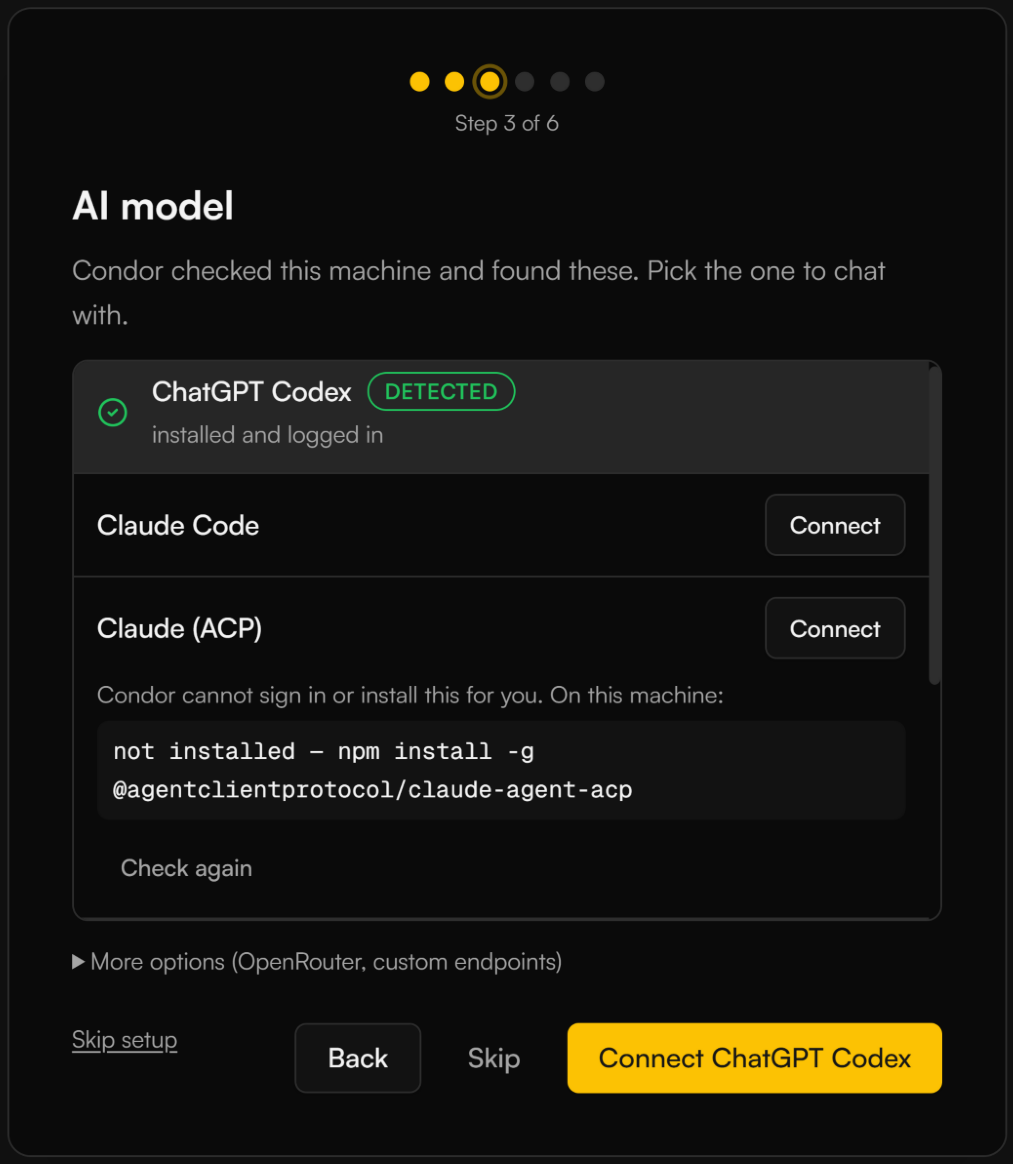
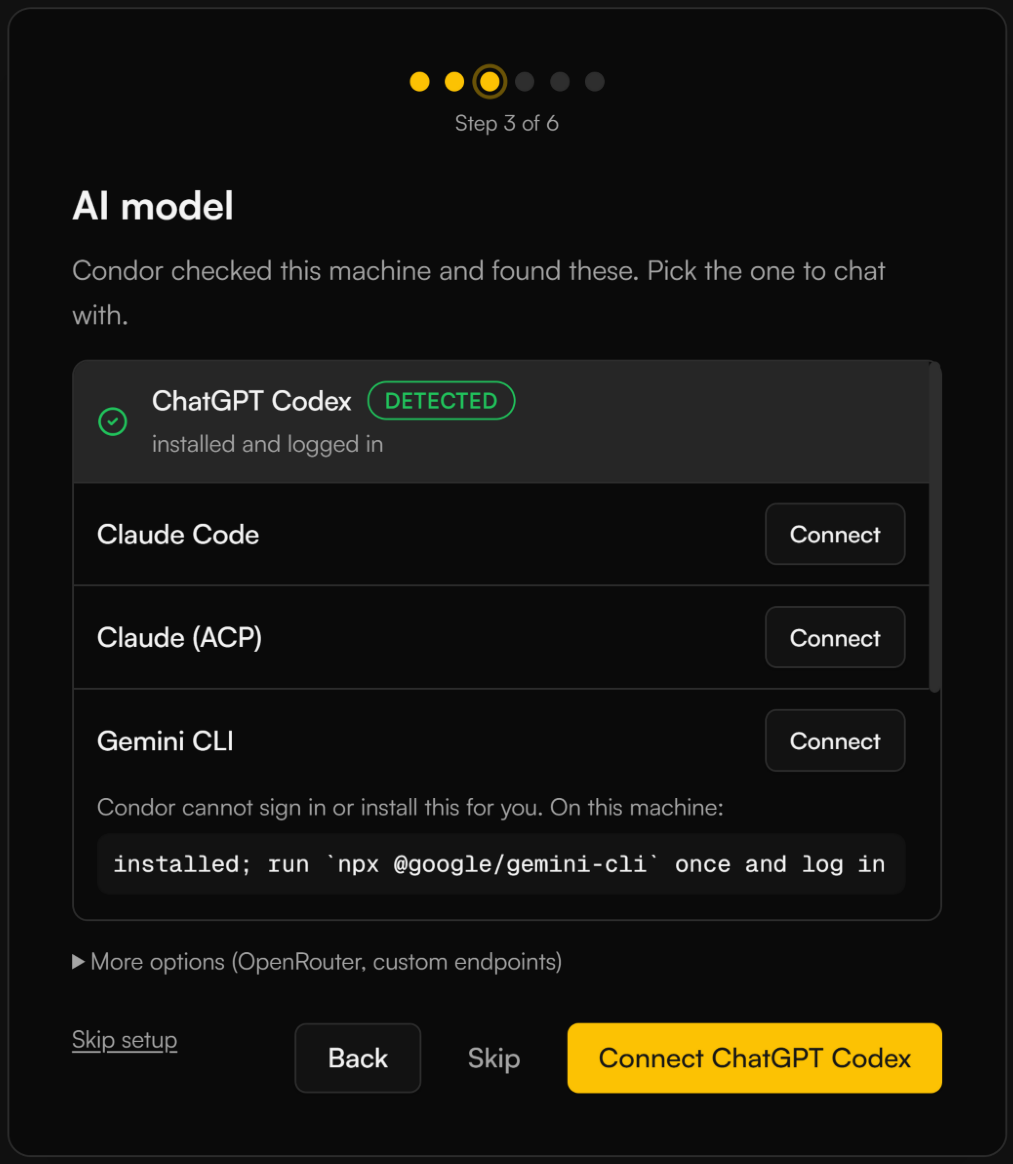
Onboarding proposal: AI model step uses the readiness state (Detected only for a proven login)

diff --git a/docs/proposals/onboarding.html b/docs/proposals/onboarding.html
@@ -113,10 +113,10 @@
 <figure class="form"><img src="assets/readiness-4-name-step.png" alt="Make it yours step, step 2 of 6, with the name field prefilled Algo Trader and no status line"><figcaption>Name (required, prefilled "Algo Trader" when nothing is saved) and dashboard title (optional, per user, up to 40 characters; longer titles are shortened in the top bar). Step 2 of 6 because the summary is step 1, and the status line is gone. PRs #2 and #14.</figcaption></figure>
 
 <h3>AI model (only if no model is ready)</h3>
-<p>The step checks this machine and gives every provider a row. A provider it <strong>found</strong> carries a green <em>Detected</em> tag and what was found ("installed and logged in"). Found rows can be picked, the recommended one is preselected, and the primary button names the pick: <strong>Connect ChatGPT Codex</strong>. A provider it <strong>did not find</strong> has a <strong>Connect</strong> button that opens what to run on this machine, plus <em>Check again</em>. OpenRouter and custom endpoints open their own model lists, so they sit under <em>More options</em>. Skip leaves the chat quiet.</p>
+<p>The step checks this machine and gives every provider a row. A provider it <strong>found and proved logged in</strong> carries a green <em>Detected</em> tag and what was found ("installed and logged in"). Found rows can be picked, the recommended one is preselected, and the primary button names the pick: <strong>Connect ChatGPT Codex</strong>. A provider it <strong>did not find</strong>, or found but could not prove logged in, has a <strong>Connect</strong> button that opens what to run on this machine, plus <em>Check again</em>. OpenRouter and custom endpoints open their own model lists, so they sit under <em>More options</em>. Skip leaves the chat quiet.</p>
 <figure class="form"><img src="assets/onboarding-2b-ai-model-found.png" alt="AI model step, step 3 of 6: ChatGPT Codex detected and selected, other providers with a Connect button, primary button reading Connect ChatGPT Codex"><figcaption>One provider detected (a stand-in Codex login on the preview machine, so test data). The others offer Connect.</figcaption></figure>
-<figure class="form"><img src="assets/onboarding-2c-ai-model-connect.png" alt="Same step with the Connect row for Claude (ACP) open, showing the install command and a Check again button"><figcaption>Connect on a provider that was not found: Condor says it cannot sign in or install for the user, and shows the command to run (taken from the backend's own check) with Check again.</figcaption></figure>
-<p><strong>What it detects.</strong> Condor's backend already checks this machine for the Claude, Gemini, Copilot and Codex command-line tools (installed, and a login file where the tool keeps one), and for Ollama and LM Studio servers that answer. <strong>What Connect cannot do:</strong> log a command-line tool in or install it. Those are interactive steps on the machine, and the backend deliberately never drives them, so Connect on a provider that was not found tells the user what to run. A cloud key typed into the browser would need a new backend call, which is not part of this change.</p>
+<figure class="form"><img src="assets/onboarding-2c-ai-model-connect.png" alt="Same step with the Connect row for Gemini CLI open, showing that it is installed and the command to log in"><figcaption>Connect on a provider that is installed but whose login cannot be proven (a stand-in install on the preview machine, so test data): it is not tagged Detected and is not preselected. Condor says it cannot sign in for the user and shows the command to run, taken from the backend's own check.</figcaption></figure>
+<p><strong>What it detects.</strong> Condor's backend already checks this machine for the Claude, Gemini, Copilot and Codex command-line tools (installed, and a login file where the tool keeps one), and for Ollama and LM Studio servers that answer. <strong>What Connect cannot do:</strong> log a command-line tool in or install it. Those are interactive steps on the machine, and the backend deliberately never drives them, so Connect on a provider that was not found tells the user what to run. A cloud key typed into the browser would need a new backend call, which is not part of this change. <strong>Detected means proven:</strong> the model list now carries the backend's own verdict for each row (<code>state</code>: ready, unverified or missing; PR #24). Only <em>ready</em> is tagged Detected and can be preselected; <em>unverified</em> (installed, login cannot be proven) is offered with Connect and its sentence. Against an older backend without <code>state</code> the step falls back to the looser <code>ready</code> flag.</p>
 
 <h3>Connect where you trade (only if nothing is connected)</h3>
 <figure class="form"><img src="assets/onboarding-3-connect.png" alt="Connect where you trade step, step 4 of 6, with exchange key, Hyperliquid and DEX wallet options"><figcaption>Exchange API key, Hyperliquid wallet or DEX wallet. Skippable. PR #9.</figcaption></figure>
@@ -141,14 +141,15 @@
     <tr><td>#14</td><td><code>ui/onboarding-readiness</code></td><td>"Your setup" readiness summary first; only missing steps follow; name step drops the status line</td><td class="s ok">Built, works</td></tr>
     <tr><td>#21</td><td><code>ui/onboarding-no-alerts</code></td><td>Removes the Stay in the loop step (code, dots, tests)</td><td class="s ok">Built, tested</td></tr>
     <tr><td>#22</td><td><code>ui/onboarding-done-simple</code></td><td>You're set: removes the Deploy a bot and Browse agents cards</td><td class="s ok">Built, tested</td></tr>
-    <tr><td>#23</td><td><code>ui/onboarding-model-connect</code></td><td>AI model step: every provider listed; Detected tag, per-row Connect, primary button names the pick</td><td class="s tweak">Built, tested; see open point 1</td></tr>
+    <tr><td>#23</td><td><code>ui/onboarding-model-connect</code></td><td>AI model step: every provider listed; Detected tag, per-row Connect, primary button names the pick</td><td class="s ok">Built, tested; uses the state from #24</td></tr>
+    <tr><td>#24</td><td><code>feat/model-readiness-state</code></td><td>Backend: each model option also carries <code>state</code> (ready, unverified, missing); additive, based on <code>ui-redesign</code>, merges on its own</td><td class="s ok">Built, tested</td></tr>
   </tbody>
 </table>
 <p>Stacked PRs, merge in order. Frontend only; the API and routes are unchanged. This proposal and the <a href="side-rail.html">side-rail proposal</a> both touch <code>AppShell.tsx</code>: merge the rail first, then rebase onboarding.</p>
 
 <h2 id="open">Open points from review</h2>
 <ol>
-  <li><strong>Model step (#11).</strong> Addressed in the follow-up: detected providers first with a Detected tag, a Connect button on the rest, a primary button that names the pick. Still open: the backend reports one "usable" flag, so a tool that is installed but not logged in is also tagged Detected (its sentence says to log in once), and may be preselected over a logged-in one. Sending the three states it already computes (ready, unverified, missing) from <code>sessions.py</code> would let the screen tag only the ready ones, preselect them, and say "log in once" for the rest.</li>
+  <li><strong>Model step (#11).</strong> Addressed in the follow-up: detected providers first with a Detected tag, a Connect button on the rest, a primary button that names the pick. The backend now also sends each row's state (PR #24), so only a proven login is tagged Detected or preselected. Left for later by decision: sign-in or install from the browser, and saving a cloud key in the browser; Connect only shows the command.</li>
   <li><strong>Server fallback.</strong> The current screen is a full form for the no-server case and ignores the <code>local</code> server that setup creates. Replace it with a readiness check that shows only what is missing (see "Better: a readiness check"), with the four server states as the fallback. Open: whether a test-connection call is added on the backend, how the wizard shows "starting" for a container that is still coming up, and whether the readiness check replaces steps 2 and 3 or sits in front of them.</li>
   <li><strong>Header noise.</strong> A red "Gateway" pill sits in the top bar behind the wizard on a fresh install. It is not actionable at that moment.</li>
   <li><strong>Resume behaviour.</strong> Fixed in #14: reopening the wizard starts at the summary, which re-reads the install, instead of the last step.</li>
@@ -163,6 +164,7 @@
 <table>
   <thead><tr><th>Date</th><th>Change</th><th>Reason / source</th><th>PR</th></tr></thead>
   <tbody>
+    <tr><td>2026-11-27</td><td>AI model step uses the backend's per-row <code>state</code>: only a proven login is tagged Detected or preselected; an installed but unproven tool shows Connect with its sentence; model-step text, rollout (#24) and the Connect screenshot updated</td><td>User approved the small backend change (PR #24). Telemetry is handled later; Connect only shows the command for now</td><td>#23, #24</td></tr>
     <tr><td>2026-11-27</td><td>Wizard screenshots now show only the form at twice the pixel density; removed the Stay in the loop step and its screenshot (dots 7 to 6); "You're set" no longer offers Deploy a bot or Browse agents; AI model step detects what the machine can run (Detected tag, per-row Connect, primary button names the pick); retook every step screenshot except "After skipping"</td><td>User review of the proposal. Code: <code>ui/onboarding-no-alerts</code>, <code>ui/onboarding-done-simple</code>, <code>ui/onboarding-model-connect</code> (PRs #21, #22, #23). Telemetry consent is no longer asked in the wizard; the existing notice strip covers it after setup</td><td>#21, #22, #23</td></tr>
     <tr><td>2026-11-26</td><td>Retook the AI model, connect, look, alerts and You're set screenshots from the PR #14 build so the dots count the summary step (steps 3 to 7 of 7)</td><td>Preview on rn5 on the readiness branch; the old shots read "of 6"</td><td>#13</td></tr>
     <tr><td>2026-11-26</td><td>Synced with the open PRs: added #14 to the rollout, refreshed the name-step screenshot and caption (summary first, title capped at 40 characters), marked resume as fixed, and noted that the other step screenshots predate the summary</td><td>Standing rule: the doc follows the real UI in the same step</td><td>#13</td></tr>
